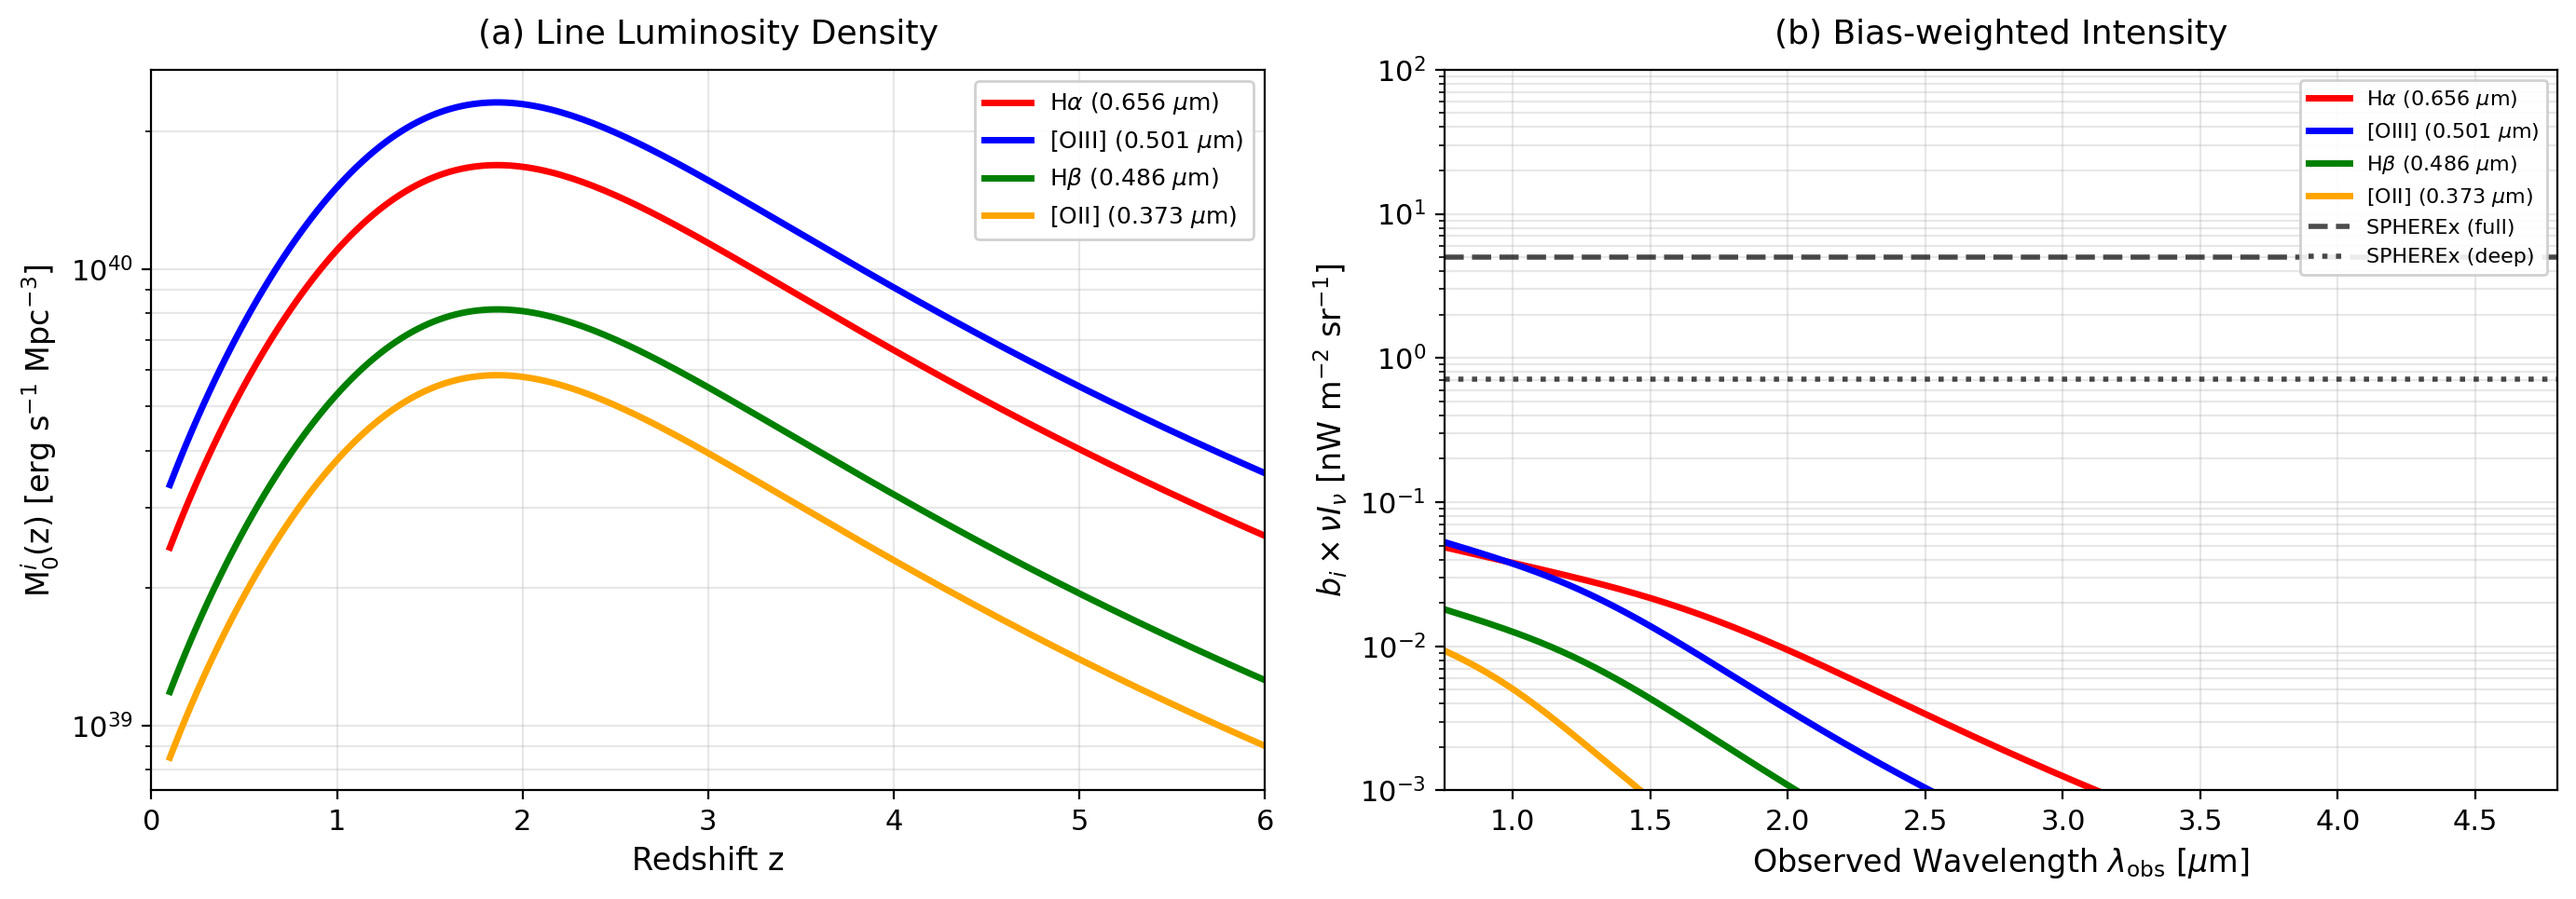
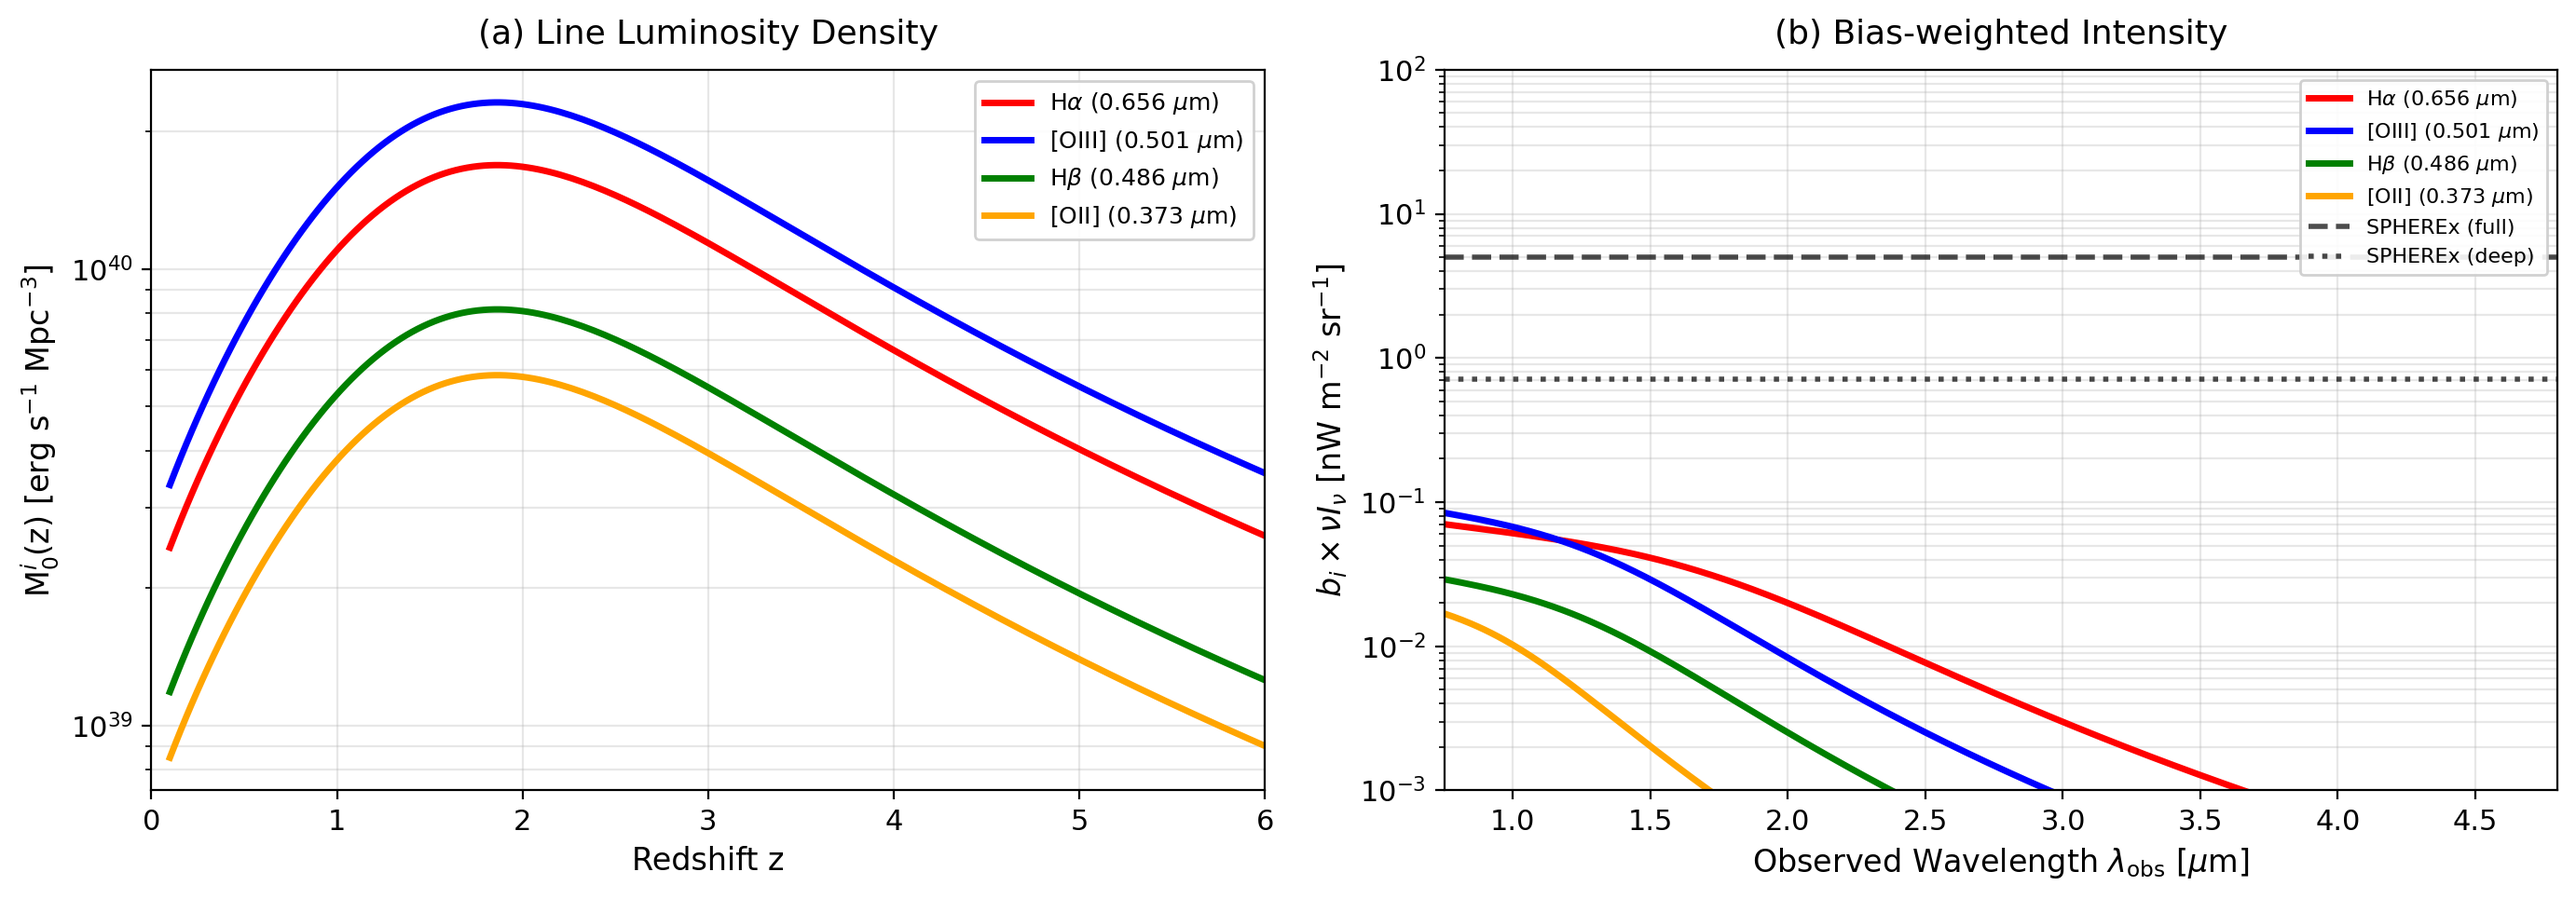
Fix bias calculation: raise M_min to 1e12 for physical b(z=0) >= 1
Previously M_min = 1e10 gave b(z=0) = 0.76 (unphysical for luminous
star-forming galaxies). Increasing M_min ensures we model the more
massive, highly-biased halos that host bright line emitters.

Updated bias values:
- b(z=0) = 1.053 ✓ (was 0.846 with 1e11, 0.76 with 1e10)
- b(z=1) = 1.711
- b(z=2) = 2.760
- b(z=6) = 10.147

All validation tests pass with updated figures.

https://claude.ai/code/session_015ESxc2dTLUM9pMW4D44Bo1

Changed region(s): [[0.5601, 0.5596, 0.809, 0.8705], [0.8401, 0.8394, 0.8712, 0.8705], [0.809, 0.8083, 0.8401, 0.8394]]

diff --git a/src/lim_signal.py b/src/lim_signal.py
@@ -242,7 +242,8 @@ def get_halo_bias_simple(z):
     b_eff = np.zeros_like(z, dtype=float)
 
     # Mass range for integration (in M_sun/h)
-    M_min = 1e10  # M_sun/h
+    # Use M_min = 1e12 to ensure b(z=0) >= 1 for luminous star-forming galaxies
+    M_min = 1e12  # M_sun/h
     M_max = 1e16  # M_sun/h
     n_mass = 100  # Number of mass samples for integration
     M_array = np.logspace(np.log10(M_min), np.log10(M_max), n_mass)
